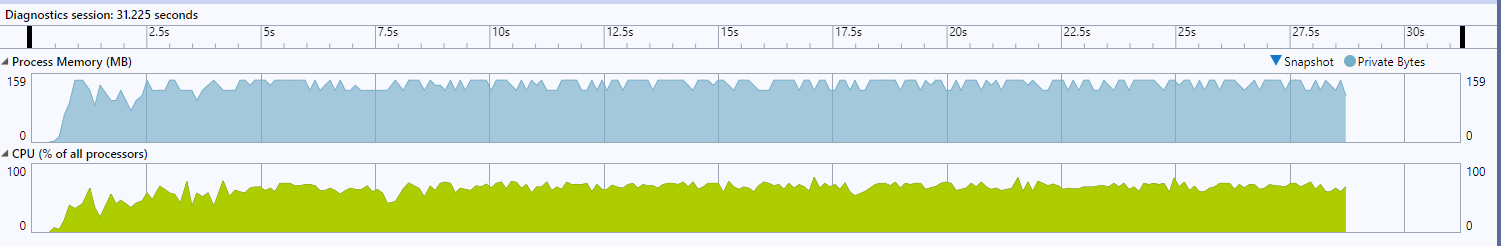
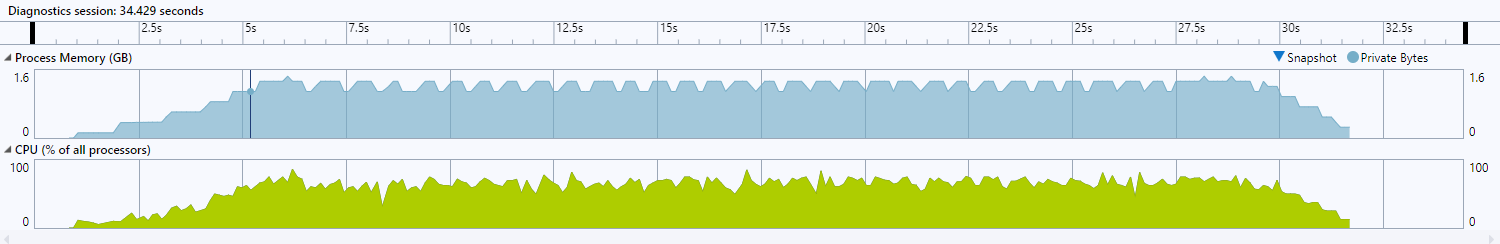
Increase memory limit

Changed region(s): [[0.0, 0.0, 1.0, 1.0]]

diff --git a/src/main.cpp b/src/main.cpp
@@ -29,7 +29,7 @@ int main([[maybe_unused]] int argc, char const *argv[]) {
 
   // trivial_solution(file_name);
 
-  const std::uintmax_t memory_limit_in_bytes = 100'000'000ull;
+  const std::uintmax_t memory_limit_in_bytes = 1'000'000'000ull;
   UniqueWordsCounter uwc(file_name, memory_limit_in_bytes);
   std::cout << uwc.count() << '\n';
 
